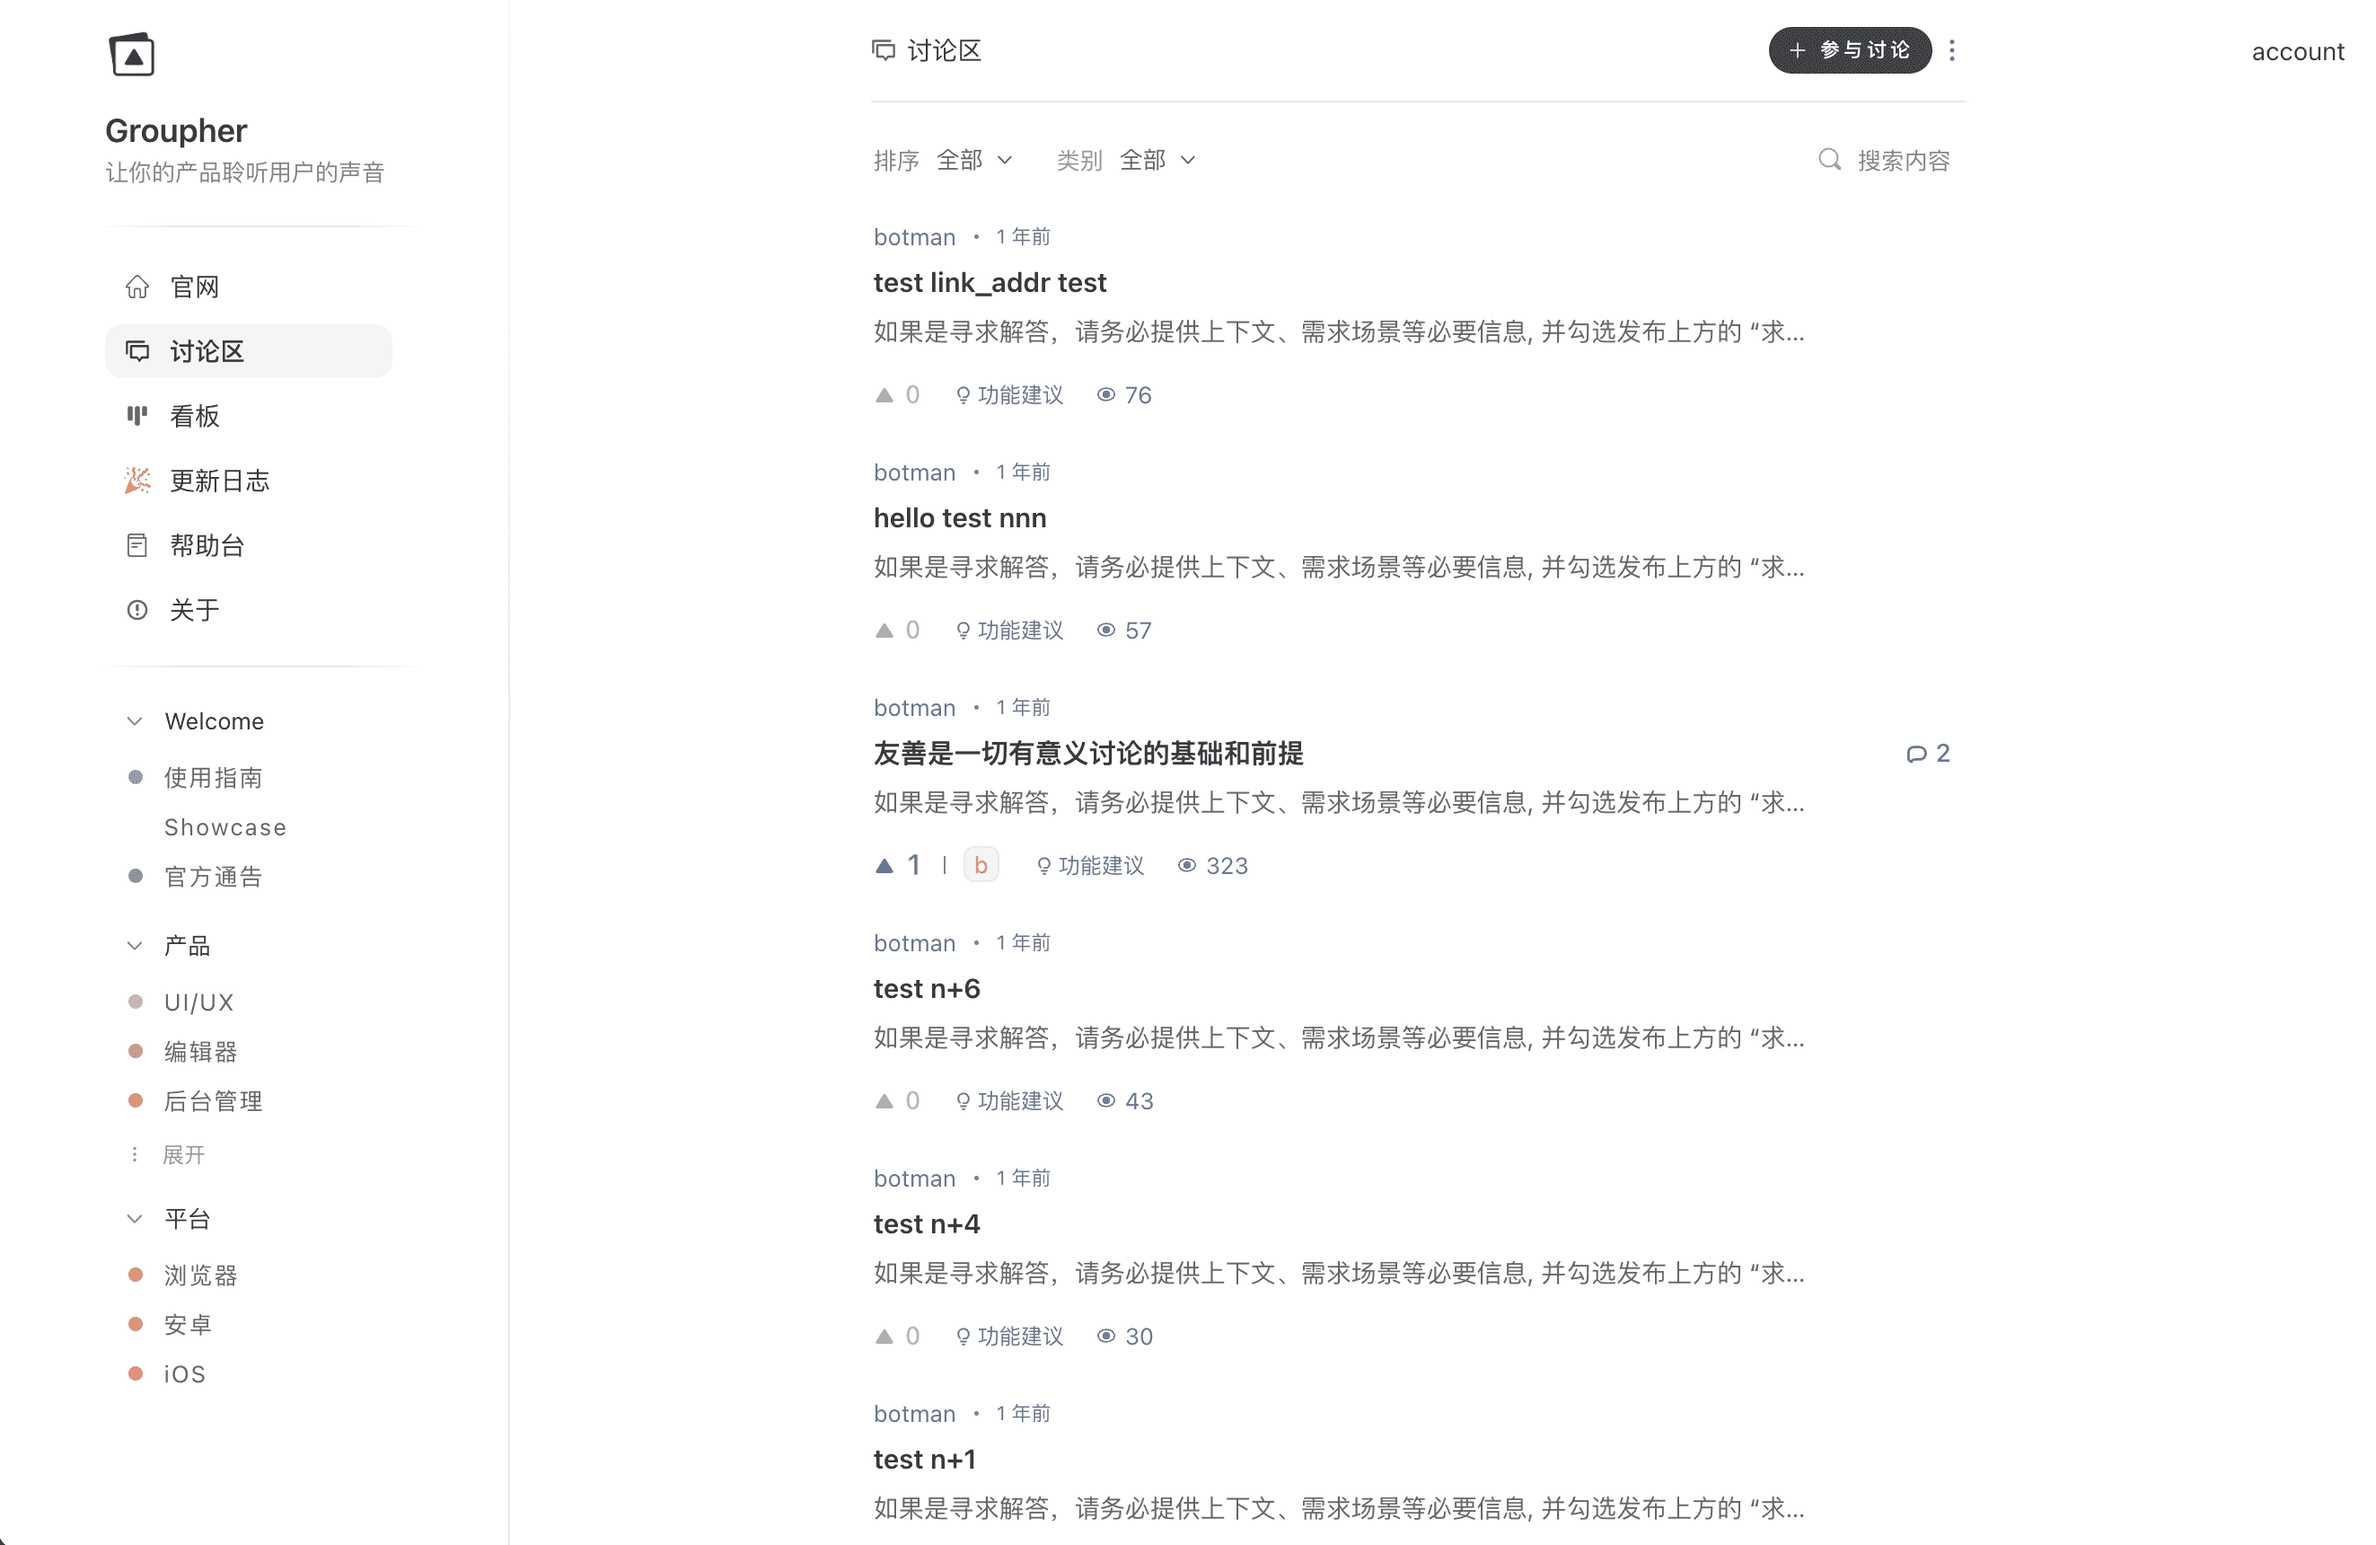
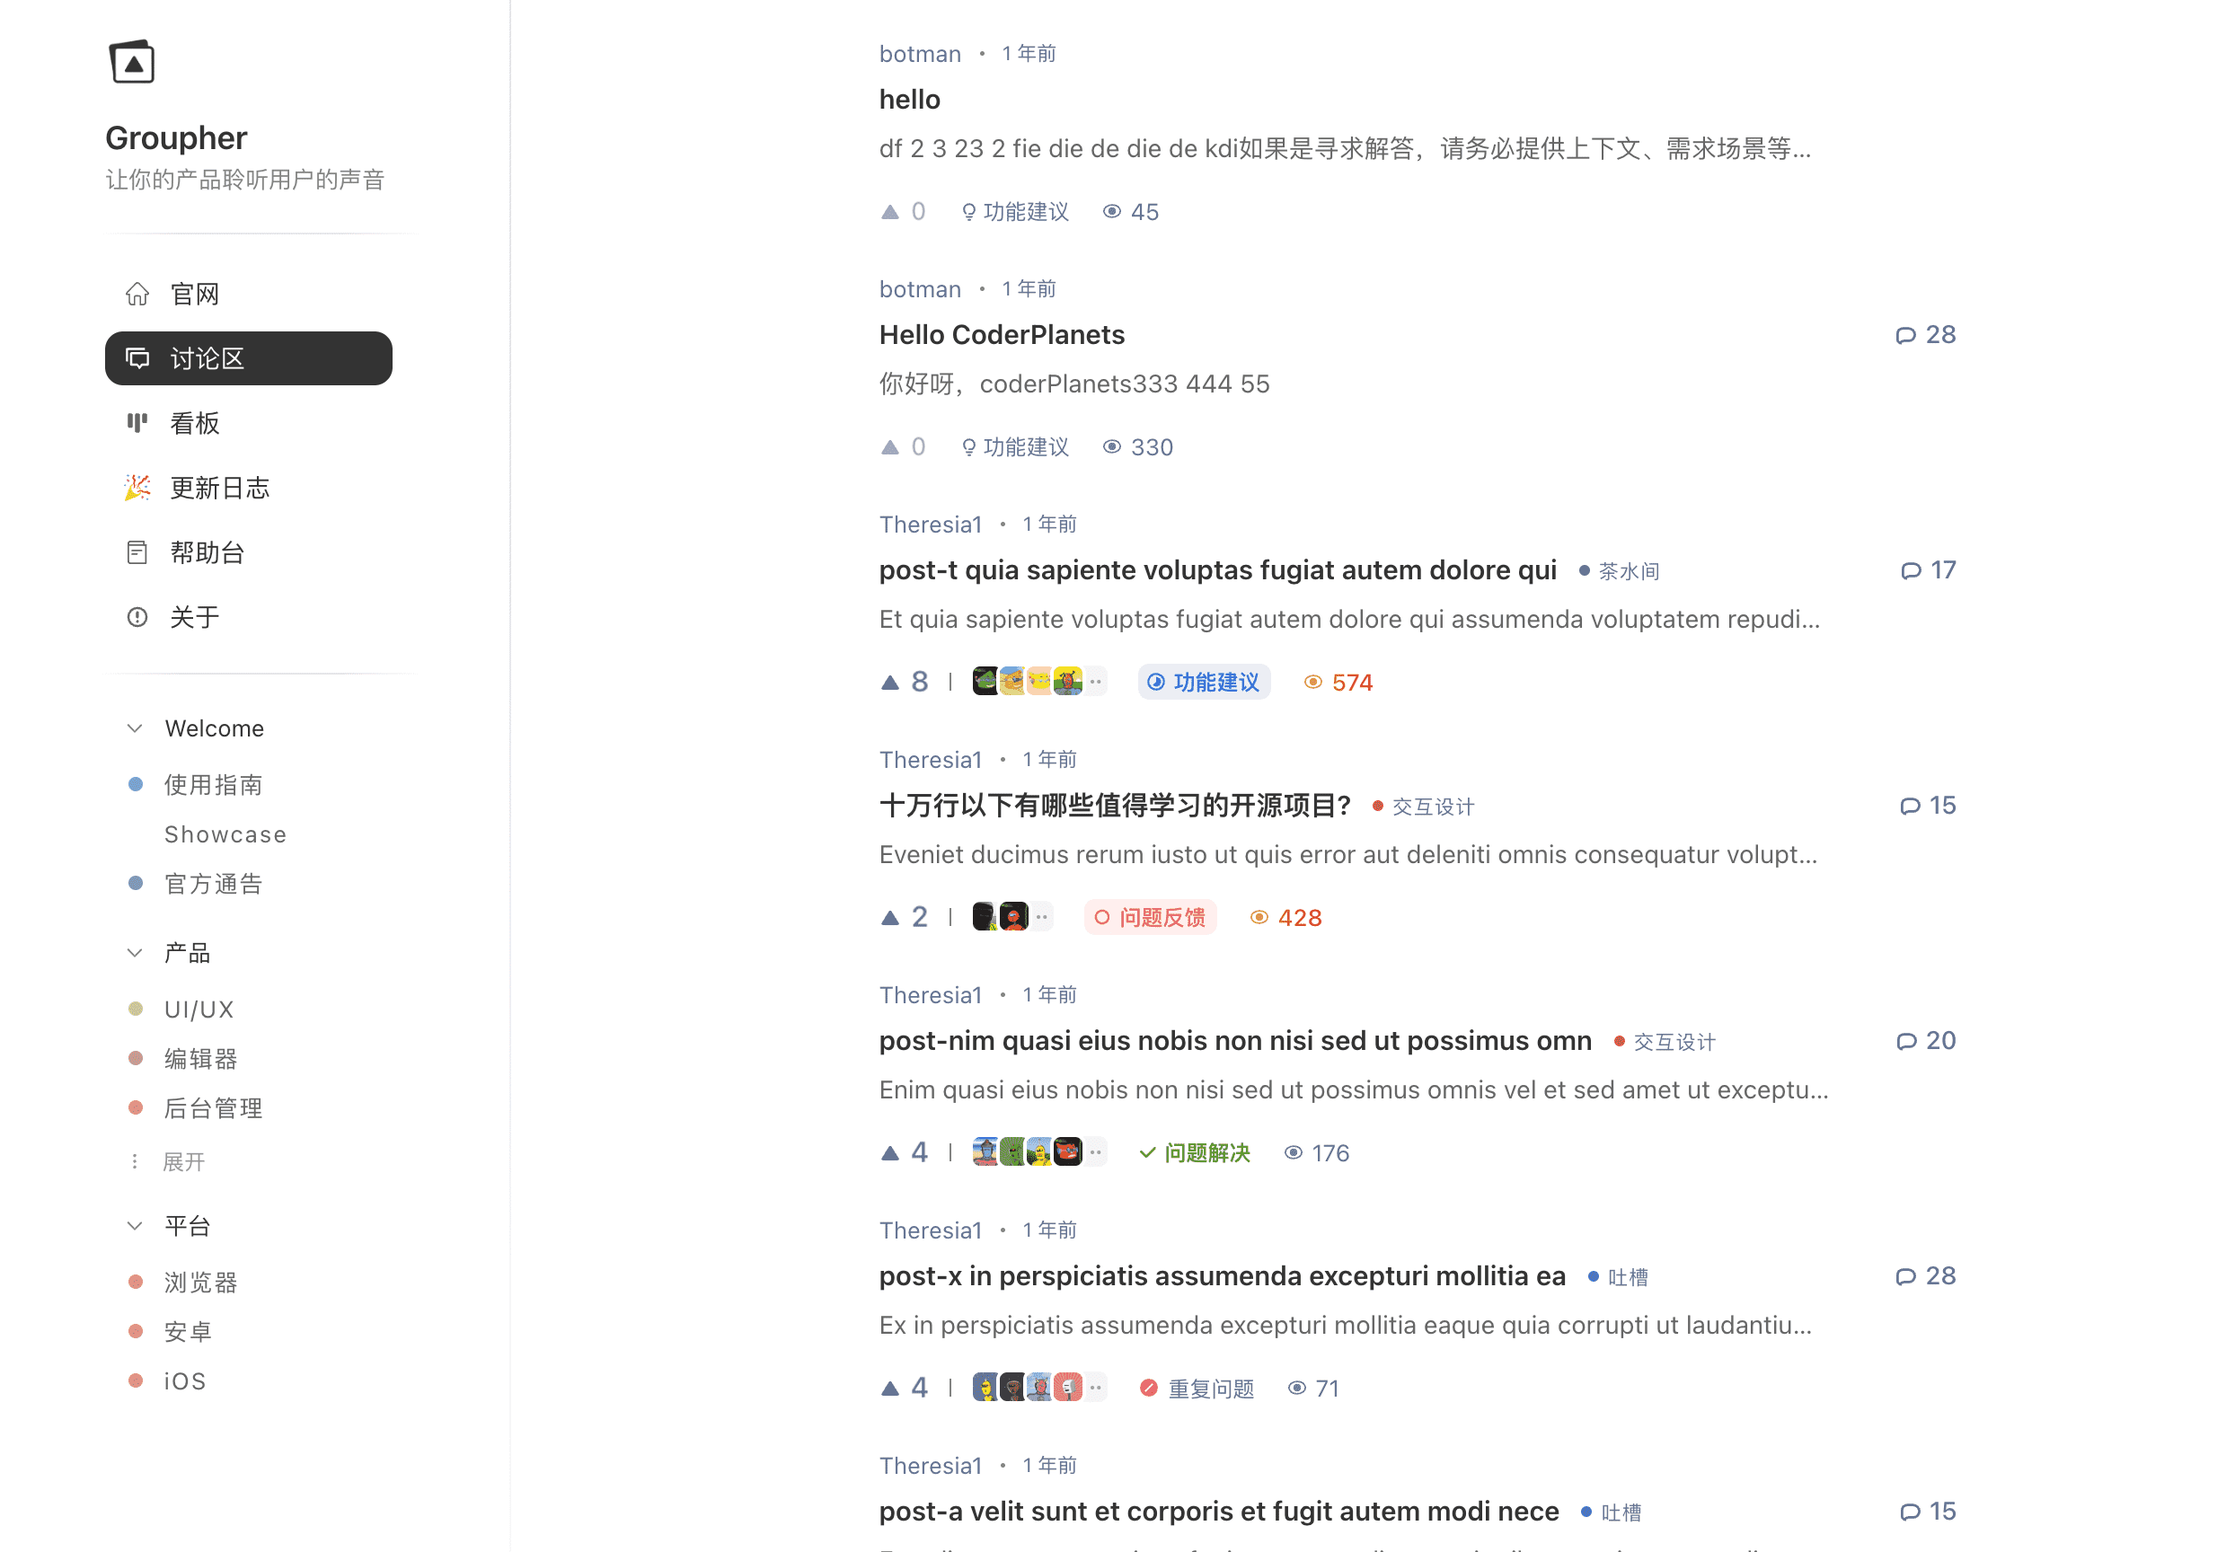
chore: adjust sidebar

diff --git a/src/containers/digest/CommunityDigest/styles/sidebar_layout/main_menu.ts b/src/containers/digest/CommunityDigest/styles/sidebar_layout/main_menu.ts
@@ -27,7 +27,7 @@ export const MenuItem = styled(Link)<TActive>`
   height: 30px;
   margin-top: 3px;
   margin-bottom: 3px;
-  background: ${({ $active }) => ($active ? theme('hoverBg') : 'transparent')};
+  background: ${({ $active }) => ($active ? theme('article.title') : 'transparent')};
   /* background: ${({ $active }) => ($active ? theme('article.title') : 'transparent')}; */
   border-radius: 10px;
   margin-left: -5px;
@@ -47,34 +47,34 @@ export const IconWrapper = styled.div`
 `
 export const HomeIcon = styled(HomeSVG)<TActive>`
   ${css.size(13)};
-  fill: ${({ $active }) => ($active ? theme('article.title') : theme('article.digest'))};
+  fill: ${({ $active }) => ($active ? 'white' : theme('article.digest'))};
 `
 export const DiscussIcon = styled(DiscussSVG)<TActive>`
   ${css.size(14)};
-  fill: ${({ $active }) => ($active ? theme('article.title') : theme('article.digest'))};
+  fill: ${({ $active }) => ($active ? 'white' : theme('article.digest'))};
 `
 export const KanbanIcon = styled(KanbanSVG)<TActive>`
   ${css.size(16)};
-  fill: ${({ $active }) => ($active ? theme('article.title') : theme('article.digest'))};
+  fill: ${({ $active }) => ($active ? 'white' : theme('article.digest'))};
   transform: rotate(180deg);
 `
 export const GuideIcon = styled(GuideSVG)<TActive>`
   ${css.size(13)};
   margin-left: -1px;
-  fill: ${({ $active }) => ($active ? theme('article.title') : theme('article.digest'))};
+  fill: ${({ $active }) => ($active ? 'white' : theme('article.digest'))};
 `
 export const InfoIcon = styled(InfoSVG)<TActive>`
   ${css.size(13)};
-  fill: ${({ $active }) => ($active ? theme('article.title') : theme('article.digest'))};
+  fill: ${({ $active }) => ($active ? 'white' : theme('article.digest'))};
 `
 export const TadaIcon = styled(TadaSVG)<TActive>`
   ${css.size(15)};
-  fill: ${({ $active }) => ($active ? theme('article.title') : theme('article.digest'))};
+  fill: ${({ $active }) => ($active ? 'white' : theme('article.digest'))};
 `
 
 export const MenuTitle = styled.div<TActive>`
-  color: ${theme('article.title')};
-  font-weight: ${({ $active }) => ($active ? 500 : 400)};
+  color: ${({ $active }) => ($active ? 'white' : theme('article.title'))};
+  /* font-weight: ${({ $active }) => ($active ? 500 : 400)}; */
   font-size: 14px;
   margin-left: 10px;
 `

diff --git a/src/widgets/Buttons/PublishButton/index.tsx b/src/widgets/Buttons/PublishButton/index.tsx
@@ -41,6 +41,7 @@ type TProps = {
   mode?: TPublishMode
   onClick?: () => void
   onMenuSelect?: (cat: TArticleCat) => void
+  menuLeft?: boolean
 }
 
 const PublishButton: FC<TProps> = ({
@@ -50,6 +51,7 @@ const PublishButton: FC<TProps> = ({
   mode = PUBLISH_MODE.DEFAULT,
   onClick = log,
   onMenuSelect = log,
+  menuLeft = false,
 }) => {
   const [show, setShow] = useState(false)
   const accountInfo = useAccount()
@@ -61,6 +63,22 @@ const PublishButton: FC<TProps> = ({
 
   return (
     <Wrapper>
+      {menuLeft && !hasNoMenu && (
+        <MoreOption right={3}>
+          <Tooltip
+            placement="bottom-start"
+            trigger="click"
+            onShow={() => setShow(true)}
+            offset={offset as [number, number]}
+            content={
+              <Fragment>{show && <FullPanel onSelect={onMenuSelect} activeCat={null} />}</Fragment>
+            }
+          >
+            <IconButton icon={SVG.MOREL} />
+          </Tooltip>
+        </MoreOption>
+      )}
+
       <PubButton
         smaller={mode === PUBLISH_MODE.SIDEBAR_LAYOUT_HEADER}
         onClick={() => {
@@ -74,8 +92,8 @@ const PublishButton: FC<TProps> = ({
         {mode === PUBLISH_MODE.SIDEBAR_LAYOUT_HEADER && <SidebarHeaderLayout text={text} />}
       </PubButton>
 
-      {!hasNoMenu && (
-        <MoreOption>
+      {!menuLeft && !hasNoMenu && (
+        <MoreOption left={3}>
           <Tooltip
             placement="bottom-end"
             trigger="click"

diff --git a/src/containers/content/LandingPage/UsersWall/index.tsx b/src/containers/content/LandingPage/UsersWall/index.tsx
@@ -1,4 +1,4 @@
-import { FC, ReactNode } from 'react'
+import { FC, ReactNode, useState, useEffect } from 'react'
 import { Parallax } from 'react-scroll-parallax'
 
 import { COLOR_NAME } from '@/constant/colors'
@@ -54,6 +54,12 @@ const P3 = (markColor: TColorName): ReactNode => (
 )
 
 const UsersWall: FC = () => {
+  const [loaded, setLoaded] = useState(false)
+
+  useEffect(() => {
+    setLoaded(true)
+  }, [])
+
   const users = mockUsers(10)
 
   return (
@@ -62,9 +68,12 @@ const UsersWall: FC = () => {
         <Title>被众多优秀开发者和团队青睐</Title>
         <Desc>从独立开发者到中小型创业团队，我们用产品力回报信任</Desc>
       </Slogan>
-      <Parallax speed={-20} scale={[3, 0.8]} opacity={[1, 0.8]}>
-        <BgGradient />
-      </Parallax>
+
+      {loaded && (
+        <Parallax speed={-20} scale={[3, 0.8]} opacity={[1, 0.8]}>
+          <BgGradient />
+        </Parallax>
+      )}
 
       <Wall>
         <MasonryCards column={3}>

diff --git a/src/widgets/SidebarLayoutHeader/PostLayout.tsx b/src/widgets/SidebarLayoutHeader/PostLayout.tsx
@@ -14,6 +14,7 @@ import {
   MainArea,
   PublishWrapper,
   AccountWrapper,
+  AccountIcon,
   Icon,
 } from './styles/post_layout'
 
@@ -38,13 +39,16 @@ const PostLayout: FC<TProps> = ({ testid = 'sidebar-layout-header' }) => {
             text="参与讨论"
             onClick={() => console.log('## publish')}
             onMenuSelect={() => console.log('## on publish')}
+            menuLeft
 
             // onClick={() => onPublish(ARTICLE_CAT.FEATURE)}
             // onMenuSelect={onPublish}
           />
         </PublishWrapper>
       </MainArea>
-      <AccountWrapper>account</AccountWrapper>
+      <AccountWrapper>
+        <AccountIcon />
+      </AccountWrapper>
     </Wrapper>
   )
 }

diff --git a/src/containers/content/LandingPage/styles/feature_wall/kanban_feat/intro_image.ts b/src/containers/content/LandingPage/styles/feature_wall/kanban_feat/intro_image.ts
@@ -25,14 +25,17 @@ export const ImageWrapper = styled.div`
 export const Image = styled(Img)`
   width: 600px;
   height: 396px;
-  border-radius: 5px;
   object-fit: cover;
   box-shadow: ${css.cardShadow};
-  border-radius: 5px;
+  border-radius: 20px;
   border: 1px solid;
-  border-color: ${theme('divider')};
+  border-color: #c6d4f0;
   box-shadow: 0 5px 25px rgb(35 35 35 / 5%);
   background: ${theme('alphaBg2')};
+
+  /* border: 1px solid transparent;
+  border-image: linear-gradient(0.35turn, transparent, #c6d4f0, #c6d4f0, #c6d4f0, transparent); */
+  /* border-image-slice: 1; */
 `
 export const ColorBlock = styled.div<TActive>`
   position: absolute;

diff --git a/src/widgets/SidebarLayoutHeader/styles/post_layout.ts b/src/widgets/SidebarLayoutHeader/styles/post_layout.ts
@@ -1,8 +1,9 @@
 import styled from 'styled-components'
 
 import type { TTestable } from '@/spec'
-
 import css, { theme } from '@/utils/css'
+
+import AccountSVG from '@/icons/Acount'
 
 export { Menu, MenuItem, Icon } from '.'
 
@@ -31,4 +32,21 @@ export const AccountWrapper = styled.div`
   ${css.flex('justify-end')};
   flex-grow: 1;
   padding-bottom: 15px;
+  padding-right: 20px;
+`
+
+const hoverEffect = `
+  opacity: 0.8;
+
+  &:hover {
+    opacity: 1;
+    cursor: pointer;
+  }
+  transition: all 0.2s;
+`
+export const AccountIcon = styled(AccountSVG)`
+  fill: ${theme('article.digest')};
+  ${css.size(16)};
+
+  ${hoverEffect}
 `

diff --git a/src/widgets/Buttons/styles/publish_button/index.ts b/src/widgets/Buttons/styles/publish_button/index.ts
@@ -1,5 +1,6 @@
 import styled from 'styled-components'
 
+import type { TSpace } from '@/spec'
 // import Img from '@/Img'
 import css from '@/utils/css'
 
@@ -21,7 +22,8 @@ export const PubButton = styled(Button)<{ smaller?: boolean }>`
   height: ${({ smaller }) => (smaller ? '26px' : '33px')};
   border-radius: 15px;
 `
-export const MoreOption = styled.div`
+export const MoreOption = styled.div<TSpace>`
   ${css.flex('align-both')};
-  margin-left: 3px;
+  margin-left: ${({ left }) => `${left}px` || 0};
+  margin-right: ${({ right }) => `${right}px` || 0};
 `

diff --git a/src/containers/content/LandingPage/styles/feature_wall/discuss_feat/intro_image.ts b/src/containers/content/LandingPage/styles/feature_wall/discuss_feat/intro_image.ts
@@ -25,12 +25,11 @@ export const ImageWrapper = styled.div`
 export const Image = styled(Img)`
   width: 600px;
   height: 396px;
-  border-radius: 5px;
+  border-radius: 20px;
   object-fit: cover;
   box-shadow: ${css.cardShadow};
   border: 1px solid;
-  border-color: ${theme('divider')};
-  border-radius: 5px;
+  border-color: #d4c6df;
   box-shadow: 0 5px 25px rgb(35 35 35 / 5%);
   background: ${theme('alphaBg2')};
 `

diff --git a/src/containers/content/LandingPage/styles/cover_image.ts b/src/containers/content/LandingPage/styles/cover_image.ts
@@ -88,7 +88,7 @@ export const Image = styled(Img)<{ hasShadow: boolean }>`
   width: calc(100% - 100px);
   margin-left: 50px;
   height: 701px;
-  object-fit: fill;
+  object-fit: cover;
 
   box-shadow: ${({ hasShadow }) =>
     hasShadow ? 'rgb(100 100 111 / 20%) 0px 7px 29px 0px;' : 'none'};

diff --git a/src/containers/content/LandingPage/FeatureWall/UserVoice.tsx b/src/containers/content/LandingPage/FeatureWall/UserVoice.tsx
@@ -22,7 +22,7 @@ const VoiceCard: FC<TVoiceCard> = ({ color, text, uname }) => {
 }
 
 const UserVoice: FC = () => {
-  const speed = 10
+  const speed = 20
 
   return (
     <Wrapper>
